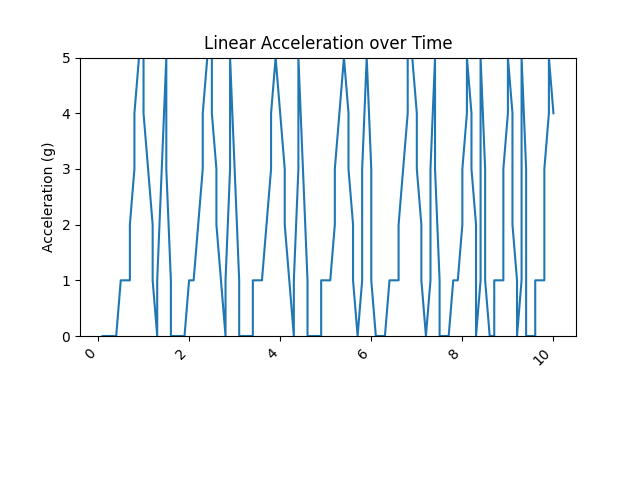
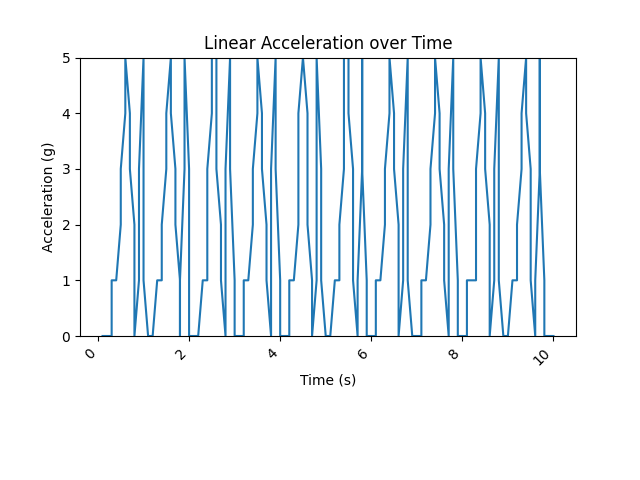
Added data analysis plot and data to gui

Changed region(s): [[0.1562, 0.125, 0.875, 0.7188], [0.4688, 0.7812, 0.5625, 0.8125]]

diff --git a/Testing_User_Scripts/TestEnvironment/new_test_GUI.py b/Testing_User_Scripts/TestEnvironment/new_test_GUI.py
@@ -2,6 +2,7 @@ import tkinter as tk
 from tkinter import font as tkfont
 from tkinter import *
 from tkinter.ttk import *
+from PIL import Image, ImageTk
 import subprocess
 
 
@@ -22,13 +23,26 @@ def running_output_page():
     # be treated as a new window
     newWindow = Toplevel(root)
     newWindow.title("Running Data Output")
-    newWindow.geometry("400x400")
+    newWindow.geometry("800x800")
     newWindow.configure(bg="#212121")
     # A Label widget to show in toplevel
     running_title = tk.Label(newWindow, text="Running Data Analysis", font=TitleFont, bg="#212121", fg="white")
     running_title.pack(pady=10)
-    #running_image = tk.Label(newWindow, image="C:/Users/moeez/Documents/repos/PeakPulse/Testing_User_Scripts/TestEnvironment/output.png")
-    #running_image.pack(pady=10)
+
+    # To show the image of plot
+    pathToImage="C:/Users/moeez/Documents/repos/PeakPulse/Testing_User_Scripts/TestEnvironment/output.png"
+    im = Image.open(pathToImage)
+    ph = ImageTk.PhotoImage(im)
+    running_image = tk.Label(newWindow, image=ph)
+    running_image.image=ph
+    running_image.pack(pady=10)
+
+    #To show the data analysis
+    with open("C:/Users/moeez/Documents/repos/PeakPulse/Testing_User_Scripts/TestEnvironment/data.txt", 'r') as file:
+        data = file.read()
+    
+    running_data = tk.Label(newWindow, text=data, font=TextFont, justify="left", bg="#212121", fg="white")
+    running_data.pack(pady=10)
 
 
 
@@ -42,6 +56,7 @@ root.configure(bg="#212121")
 
 # Define a custom font
 TitleFont = tkfont.Font(family="Roboto", size=20, weight="bold")
+TextFont = tkfont.Font(family="Roboto", size=16, weight="normal")
 ButtonFont = tkfont.Font(family="Roboto", size=16, weight="normal")
 
 # Create a label widget

diff --git a/Testing_User_Scripts/TestEnvironment/new_test_running.py b/Testing_User_Scripts/TestEnvironment/new_test_running.py
@@ -37,6 +37,7 @@ def acc_animate(i, s_time, xs, ys, test_values):
     plt.subplots_adjust(bottom=0.30)
     plt.title('Linear Acceleration over Time')
     plt.ylabel('Acceleration (g)')
+    plt.xlabel('Time (s)')
 
     # Stop the graph after 10 seconds
     if plot_time >= 10:
@@ -109,3 +110,12 @@ cadence = len(extracted_rows) / 2
 print(f"{cadence} is cadence")
 print(f"{average_stride_time}is stride time")
 print(f"{linear_acc_max} is max")
+
+
+#Write the data to a text file
+filename = "C:/Users/moeez/Documents/repos/PeakPulse/Testing_User_Scripts/TestEnvironment/data.txt"
+with open(filename, "w") as file:
+        file.write("Maximum Acceleration: " + str(linear_acc_max) + "\n")
+        file.write("Cadence: " + str(cadence) + "\n")
+        file.write("Average Stride Time: " + str(average_stride_time) + "\n")
+
